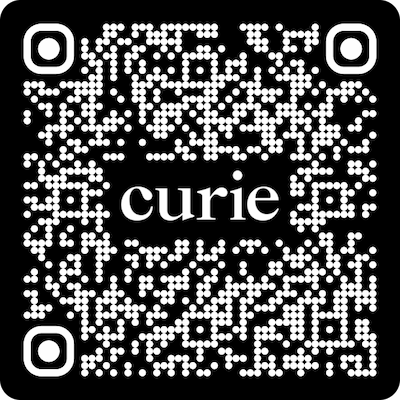
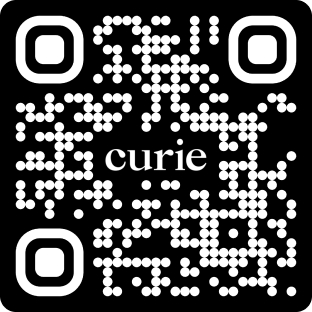
Added qr code

diff --git a/components/molecules/Navbar/Popup/index.tsx b/components/molecules/Navbar/Popup/index.tsx
@@ -39,16 +39,7 @@ function Download({ onClose }: { onClose: () => void }) {
             </div>
           </div>
           <picture>
-            <source
-              srcSet="/download-qr.avif"
-              type="image/avif"
-              className={styles.img}
-            />
-            <source
-              srcSet="/download-qr.webp"
-              type="image/webp"
-              className={styles.img}
-            />
+           
             <source
               srcSet="/download-qr.png"
               type="image/png"
